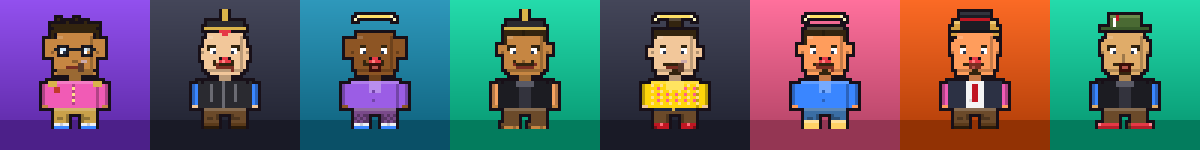
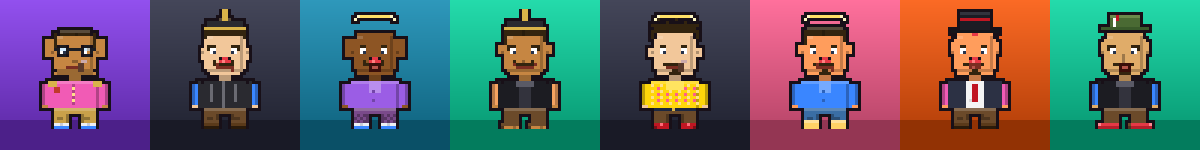
feat(generator): add 'receding' hairstyle
Short, combed-back cut with a receding hairline (Geheimratsecken) in front and profile views. Wired into the editor catalog; appended so existing explicit configs/codes stay valid.

diff --git a/packages/generator/src/parts.ts b/packages/generator/src/parts.ts
@@ -412,6 +412,16 @@ export function drawHair(g: Ctx2D, id: PartId<"hair">): void {
       P(g, 8, 7, 1, 3, h);
       P(g, 23, 7, 1, 3, h);
       break;
+    case "receding": // short, combed back, with a receding hairline (temples)
+      P(g, 11, 7, 10, 1, h); // thin top, set back
+      P(g, 10, 8, 12, 1, h); // hairline row across the forehead top
+      P(g, 9, 8, 1, 6, h); // left side down past the ear
+      P(g, 22, 8, 1, 6, h); // right side
+      P(g, 11, 7, 10, 1, hh); // highlight
+      clr(g, 10, 8); // recede the front corners (Geheimratsecken)
+      clr(g, 21, 8);
+      px(g, 16, 8, hd); // hint of a side part
+      break;
   }
 }
 
@@ -762,6 +772,10 @@ export function drawSide(g: Ctx2D, s: SideParts, skin: string, cloth: string, pa
     if (s.hair === "mohawk") {
       P(g, 10, 3, 3, 6, "#e63946");
       P(g, 10, 8, 11, 2, h);
+    } else if (s.hair === "receding") {
+      P(g, 8, 6, 9, 2, hc); // short top, recedes before the face
+      P(g, 8, 8, 2, 2, hc); // upper back
+      P(g, 7, 9, 2, 7, hc); // side/back down past the ear
     } else {
       P(g, 8, 6, 13, 3, hc);
       P(g, 7, 8, 2, 9, hc);

diff --git a/packages/generator/src/palettes.ts b/packages/generator/src/palettes.ts
@@ -7,7 +7,7 @@
  */
 export const PARTS = {
   hat: ["none", "top-hat", "crown", "hard-hat", "peaked-cap", "tyrolean-hat", "pickelhaube", "halo"],
-  hair: ["bald", "side-part", "tousled", "mullet", "blow-wave", "mohawk", "bun", "messy"],
+  hair: ["bald", "side-part", "tousled", "mullet", "blow-wave", "mohawk", "bun", "messy", "receding"],
   ears: ["normal", "sail-ears", "pointed", "small", "sticking-out", "floppy", "elf", "huge"],
   nose: ["button", "aquiline", "bulbous", "pointed", "wide", "hooked", "snub", "clown"],
   mouth: ["smile", "grimace", "pout", "grin", "scream", "line", "snarl", "whistle"],
@@ -27,7 +27,7 @@ export type PartId<K extends PartKey = PartKey> = (typeof PARTS)[K][number];
 /** Human-readable display labels parallel to {@link PARTS}. UI-only. */
 export const PART_LABELS: Record<PartKey, readonly string[]> = {
   hat: ["None", "Top Hat", "Crown", "Hard Hat", "Peaked Cap", "Tyrolean Hat", "Pickelhaube", "Halo"],
-  hair: ["Bald", "Side Part", "Tousled", "Mullet", "Blow Wave", "Mohawk", "Bun", "Messy"],
+  hair: ["Bald", "Side Part", "Tousled", "Mullet", "Blow Wave", "Mohawk", "Bun", "Messy", "Receding"],
   ears: ["Normal", "Sail Ears", "Pointed", "Small", "Sticking Out", "Floppy", "Elf", "Huge"],
   nose: ["Button", "Aquiline", "Bulbous", "Pointed", "Wide", "Hooked", "Snub", "Clown"],
   mouth: ["Smile", "Grimace", "Pout", "Grin", "Scream", "Line", "Snarl", "Whistle"],

diff --git a/.changeset/receding-hair.md b/.changeset/receding-hair.md
@@ -1,0 +1,8 @@
+---
+"@retro-antlitz-kartei/generator": minor
+"@retro-antlitz-kartei/react-editor": patch
+---
+
+Add a `receding` hairstyle — a short, combed-back cut with a receding hairline
+(front and profile views), for the classic short-business / "Geheimratsecken"
+look.